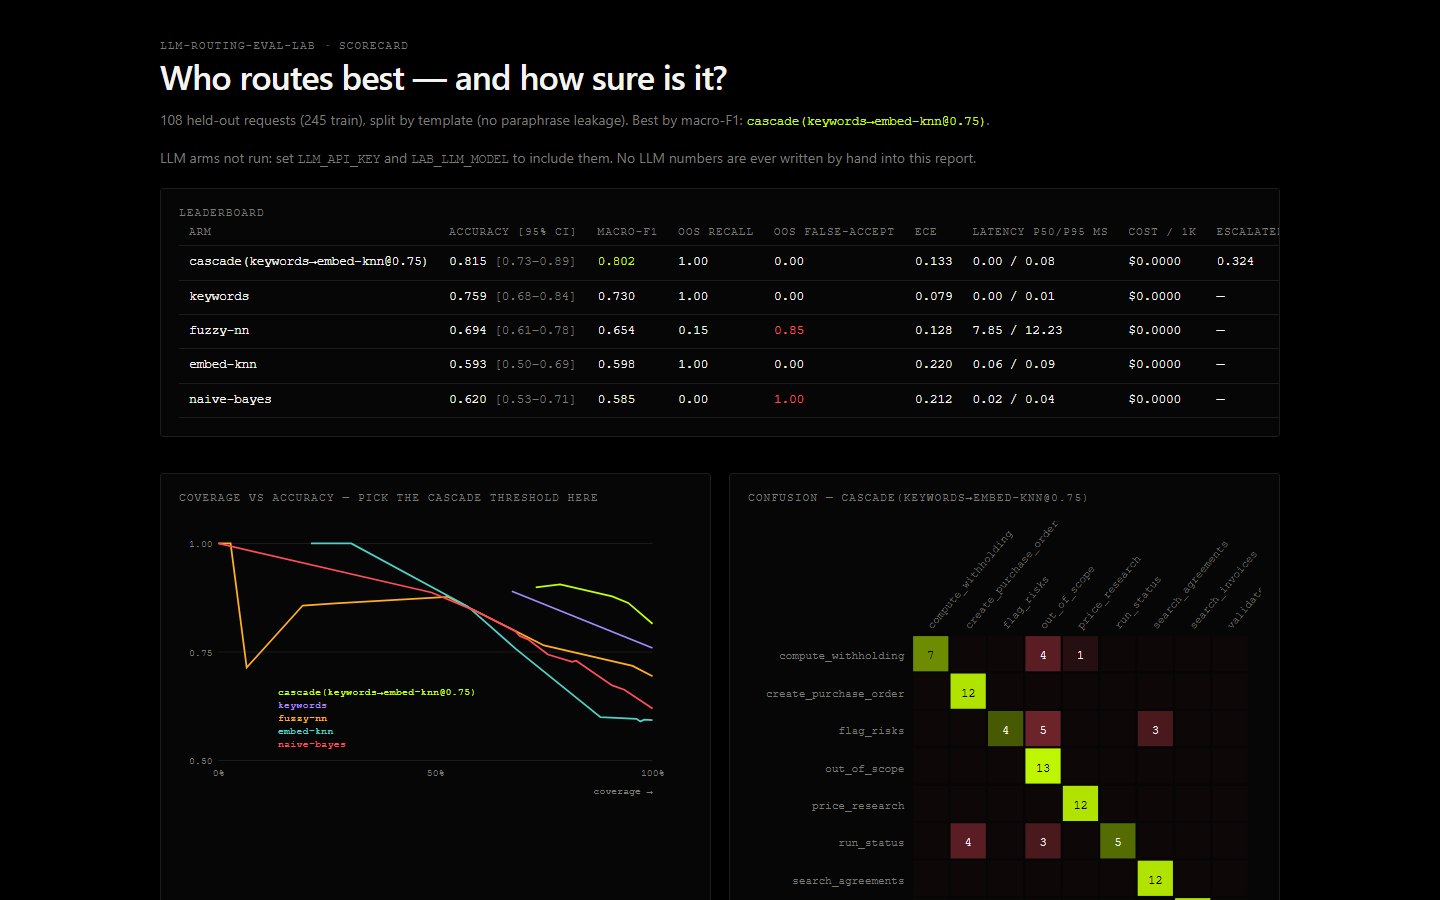
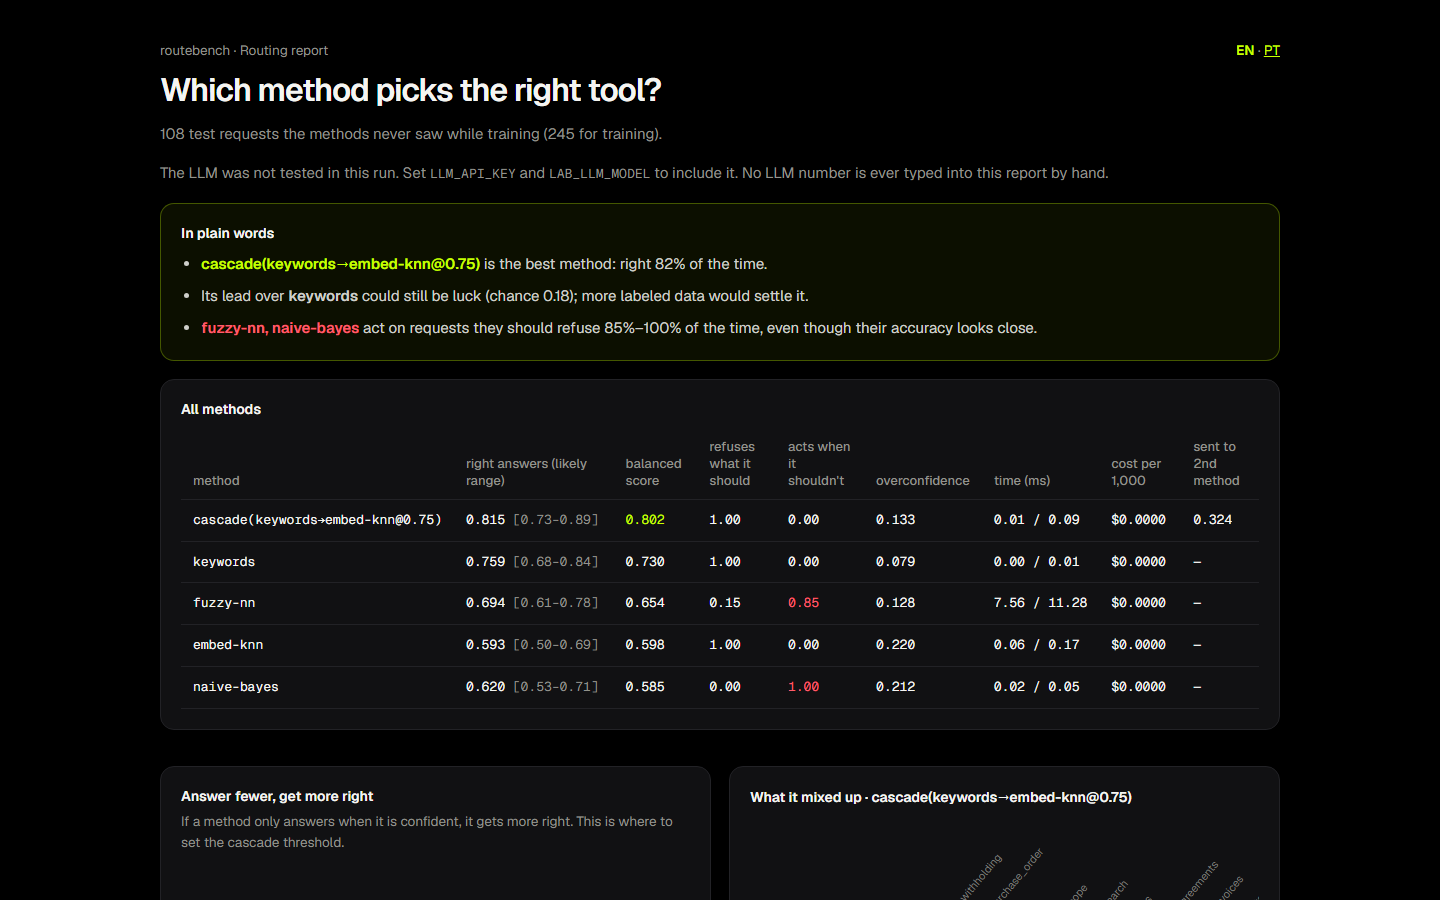
report: plain-language scorecard with a short summary

diff --git a/lab/report.py b/lab/report.py
@@ -1,4 +1,4 @@
-"""Standalone HTML scorecard (VOID theme, inline SVG, no JS) and a Markdown summary."""
+"""Standalone HTML scorecard (shared portfolio look, inline SVG, no JS) and a Markdown summary."""
 from __future__ import annotations
 
 import html
@@ -6,15 +6,17 @@ from typing import Any
 
 PALETTE = ["#c6ff00", "#a58bff", "#ffb020", "#4fd1c5", "#ff4d5e", "#f4f4f0", "#7a7a76"]
 CSS = """
-:root{--bg:#000;--s:#060606;--l:#1c1c1c;--ink:#f4f4f0;--m:#7a7a76;--a:#c6ff00;--v:#a58bff;--d:#ff4d5e}
-*{box-sizing:border-box}body{margin:0;background:var(--bg);color:var(--ink);font:14px/1.55 Inter,system-ui,sans-serif;padding:40px 16px}
-main{max-width:1120px;margin:0 auto}h1{font:600 34px/1.1 'Space Grotesk',system-ui;letter-spacing:-.02em;margin:6px 0 8px}
-.label{font:500 10.5px ui-monospace,monospace;letter-spacing:.14em;text-transform:uppercase;color:var(--m)}
-.card{border:1px solid var(--l);border-radius:3px;background:var(--s);margin:18px 0;padding:18px;overflow-x:auto}
-table{width:100%;border-collapse:collapse}td,th{text-align:left;padding:7px 10px;border-bottom:1px solid var(--l);white-space:nowrap}
-th{font:500 10.5px ui-monospace,monospace;letter-spacing:.12em;text-transform:uppercase;color:var(--m)}
-.mono{font-family:ui-monospace,monospace;font-size:12.5px}.muted{color:var(--m)}.a{color:var(--a)}.d{color:var(--d)}
+:root{--bg:#000;--s:#111113;--s2:#19191c;--l:#222226;--ink:#f5f5f2;--soft:#cfcfca;--m:#92928c;--a:#c6ff00;--v:#a58bff;--d:#ff5c6c}
+*{box-sizing:border-box}body{margin:0;background:var(--bg);color:var(--ink);font:15px/1.6 Geist,'Segoe UI',system-ui,sans-serif;padding:40px 16px;-webkit-font-smoothing:antialiased}
+main{max-width:1120px;margin:0 auto}h1{font:600 32px/1.1 Geist,'Segoe UI',system-ui,sans-serif;letter-spacing:-.03em;margin:10px 0 10px}
+.label{font:600 14px Geist,'Segoe UI',system-ui,sans-serif;color:var(--ink);margin-bottom:10px}.top{display:flex;justify-content:space-between;color:var(--m);font-size:13.5px}
+.card{border:1px solid var(--l);border-radius:14px;background:var(--s);margin:18px 0;padding:20px;overflow-x:auto}
+table{width:100%;border-collapse:collapse}td,th{text-align:left;padding:10px 12px;border-bottom:1px solid var(--l);white-space:nowrap}
+th{font:500 13px Geist,'Segoe UI',system-ui,sans-serif;color:var(--m);white-space:normal;vertical-align:bottom}
+.mono{font-family:'Geist Mono',ui-monospace,monospace;font-size:13px}.muted{color:var(--m)}.a{color:var(--a)}.d{color:var(--d)}
 .grid{display:grid;grid-template-columns:1fr 1fr;gap:18px}@media(max-width:900px){.grid{grid-template-columns:1fr}}
+.plain{border-color:rgba(198,255,0,.3);background:rgba(198,255,0,.06)}.plain ul{margin:0;padding-left:20px;display:grid;gap:8px;color:var(--soft)}
+a{color:var(--a)}.hint{color:var(--m);font-size:13.5px;margin:-4px 0 12px}
 """
 
 
@@ -25,15 +27,15 @@ def _curve_svg(rows: list[dict[str, Any]], tr=lambda s: s) -> str:
     parts = [f'<svg viewBox="0 0 {W} {H}" width="100%" role="img" aria-label="coverage vs accuracy">']
     for t in (0.5, 0.75, 1.0):
         parts.append(f'<line x1="{P}" x2="{W - P}" y1="{y(t)}" y2="{y(t)}" stroke="#1c1c1c"/>'
-                     f'<text x="{P - 6}" y="{y(t) + 4}" fill="#7a7a76" font-size="10" text-anchor="end" font-family="monospace">{t:.2f}</text>')
+                     f'<text x="{P - 6}" y="{y(t) + 4}" fill="#7a7a76" font-size="10" text-anchor="end" font-family="Geist, sans-serif">{t:.2f}</text>')
     for c in (0, 0.5, 1):
-        parts.append(f'<text x="{x(c)}" y="{H - P + 16}" fill="#7a7a76" font-size="10" text-anchor="middle" font-family="monospace">{c:.0%}</text>')
-    parts.append(f'<text x="{W - P}" y="{H - 6}" fill="#7a7a76" font-size="10" text-anchor="end" font-family="monospace">{tr("coverage →")}</text>')
+        parts.append(f'<text x="{x(c)}" y="{H - P + 16}" fill="#7a7a76" font-size="10" text-anchor="middle" font-family="Geist, sans-serif">{c:.0%}</text>')
+    parts.append(f'<text x="{W - P}" y="{H - 6}" fill="#7a7a76" font-size="10" text-anchor="end" font-family="Geist, sans-serif">{tr("coverage →")}</text>')
     for i, row in enumerate(rows):
         pts = " ".join(f"{x(pt['coverage']):.1f},{y(max(0.5, pt['accuracy'])):.1f}" for pt in row["coverage_curve"])
         color = PALETTE[i % len(PALETTE)]
         parts.append(f'<polyline points="{pts}" fill="none" stroke="{color}" stroke-width="1.8"/>'
-                     f'<text x="{P + 60}" y="{H - P - 14 - (len(rows) - 1 - i) * 13}" fill="{color}" font-size="10.5" font-family="monospace">{html.escape(row["arm"])}</text>')
+                     f'<text x="{P + 60}" y="{H - P - 14 - (len(rows) - 1 - i) * 13}" fill="{color}" font-size="10.5" font-family="Geist, sans-serif">{html.escape(row["arm"])}</text>')
     parts.append("</svg>")
     return "".join(parts)
 
@@ -45,29 +47,78 @@ def _confusion_svg(m: dict[str, dict[str, int]]) -> str:
     peak = max(max(r.values()) for r in m.values()) or 1
     parts = [f'<svg viewBox="0 0 {W} {H}" width="100%" role="img" aria-label="confusion matrix">']
     for j, lab in enumerate(labels):
-        parts.append(f'<text transform="translate({left + j * cell + cell / 2},{top - 6}) rotate(-50)" fill="#7a7a76" font-size="10" font-family="monospace">{lab}</text>')
+        parts.append(f'<text transform="translate({left + j * cell + cell / 2},{top - 6}) rotate(-50)" fill="#7a7a76" font-size="10" font-family="Geist, sans-serif">{lab}</text>')
     for i, a in enumerate(labels):
-        parts.append(f'<text x="{left - 8}" y="{top + i * cell + cell / 2 + 4}" fill="#7a7a76" font-size="10" text-anchor="end" font-family="monospace">{a}</text>')
+        parts.append(f'<text x="{left - 8}" y="{top + i * cell + cell / 2 + 4}" fill="#7a7a76" font-size="10" text-anchor="end" font-family="Geist, sans-serif">{a}</text>')
         for j, b in enumerate(labels):
             v = m[a][b]
             color = "198,255,0" if a == b else "255,77,94"
             alpha = 0.06 + 0.9 * v / peak if v else 0.03
             parts.append(f'<rect x="{left + j * cell}" y="{top + i * cell}" width="{cell - 2}" height="{cell - 2}" fill="rgba({color},{alpha:.2f})"/>')
             if v:
-                parts.append(f'<text x="{left + j * cell + cell / 2 - 1}" y="{top + i * cell + cell / 2 + 4}" fill="{"#000" if alpha > .5 else "#f4f4f0"}" font-size="11" text-anchor="middle" font-family="monospace">{v}</text>')
+                parts.append(f'<text x="{left + j * cell + cell / 2 - 1}" y="{top + i * cell + cell / 2 + 4}" fill="{"#000" if alpha > .5 else "#f4f4f0"}" font-size="11" text-anchor="middle" font-family="Geist, sans-serif">{v}</text>')
     parts.append("</svg>")
     return "".join(parts)
 
 
-PT = {'Who routes best — and how sure is it?': 'Quem roteia melhor — e com quanta certeza?', 'held-out requests': 'pedidos de teste', 'train': 'treino', 'split': 'divisão', 'by template (no paraphrase leakage)': 'por template (sem vazamento de paráfrases)', 'Best by macro-F1:': 'Melhor por macro-F1:', 'leaderboard': 'classificação', 'arm': 'braço', 'accuracy [95% CI]': 'acurácia [IC 95%]', 'OOS recall': 'recall fora de escopo', 'OOS false-accept': 'falso aceite fora de escopo', 'latency p50/p95 ms': 'latência p50/p95 ms', 'cost / 1k': 'custo / mil', 'escalated': 'escalado', 'coverage vs accuracy — pick the cascade threshold here': 'cobertura × acurácia — escolha aqui o limiar da cascata', 'confusion': 'confusão', 'is the difference real? exact McNemar vs': 'a diferença é real? McNemar exato vs', 'only best right': 'só o melhor acertou', 'only this right': 'só este acertou', 'p-value': 'p-valor', 'where the best arm fails': 'onde o melhor braço erra', 'request': 'pedido', 'truth': 'verdade', 'predicted': 'previsto', 'conf': 'conf.', 'coverage →': 'cobertura →', 'scorecard': 'placar', 'LLM arms not run: set': 'Braços com LLM não rodaram: defina', 'and': 'e', 'to include them. No LLM numbers are ever written by hand into this report.': 'para incluí-los. Nenhum número de LLM é escrito à mão neste relatório.'}
+PT = {
+ 'Which method picks the right tool?': 'Qual método escolhe a ferramenta certa?',
+ 'test requests the methods never saw while training': 'pedidos de teste que os métodos nunca viram no treino',
+ 'for training': 'para treino',
+ 'In plain words': 'Em poucas palavras',
+ 'is the best method: right': 'é o melhor método: acerta',
+ 'of the time.': 'das vezes.',
+ 'Its lead over': 'A vantagem sobre',
+ 'could still be luck (chance': 'ainda pode ser sorte (chance de',
+ 'is unlikely to be luck (chance': 'dificilmente é sorte (chance de',
+ 'more labeled data would settle it.': 'mais dados rotulados resolveriam.',
+ 'act on requests they should refuse': 'agem em pedidos que deveriam recusar',
+ 'of the time, even though their accuracy looks close.': 'das vezes, mesmo com acurácia parecida.',
+ 'method': 'método', 'right answers (likely range)': 'acertos (faixa provável)', 'balanced score': 'nota equilibrada',
+ 'refuses what it should': 'recusa o que deve', 'acts when it shouldn\'t': 'age quando não devia', 'overconfidence': 'excesso de confiança',
+ 'time (ms)': 'tempo (ms)', 'cost per 1,000': 'custo por mil', 'sent to 2nd method': 'enviado ao 2º método',
+ 'All methods': 'Todos os métodos',
+ 'Answer fewer, get more right': 'Responder menos, acertar mais',
+ 'If a method only answers when it is confident, it gets more right. This is where to set the cascade threshold.':
+   'Se o método só responde quando está confiante, acerta mais. É aqui que se escolhe o limite da cascata.',
+ 'What it mixed up': 'O que ele confundiu',
+ 'Is the difference real, or luck?': 'A diferença é real ou sorte?',
+ 'compared with': 'comparado com',
+ 'only the best got it right': 'só o melhor acertou', 'only this one got it right': 'só este acertou', 'chance it is luck': 'chance de ser sorte',
+ 'Where the best method gets it wrong': 'Onde o melhor método erra',
+ 'right tool': 'ferramenta certa', 'it chose': 'escolheu', 'confidence': 'confiança',
+ 'coverage →': 'respondidos →', 'Routing report': 'Relatório de roteamento',
+ 'The LLM was not tested in this run. Set': 'O LLM não foi testado nesta execução. Defina', 'and': 'e',
+ 'to include it. No LLM number is ever typed into this report by hand.': 'para incluí-lo. Nenhum número de LLM é digitado à mão neste relatório.',
+ 'Exact McNemar test: it only looks at the requests that one method got right and the other got wrong.':
+   'Teste exato de McNemar: olha só os pedidos que um método acertou e o outro errou.',
+ 'request': 'pedido',
+}
 
 
 def to_html(r: dict[str, Any], lang: str = "en") -> str:
     e = html.escape
     tr = (lambda s: PT.get(s, s)) if lang == "pt" else (lambda s: s)
-    other = '<a class=mono href="scorecard.html">EN</a> · <b class=a>PT</b>' if lang == "pt" else '<b class=a>EN</b> · <a class=mono href="scorecard.pt.html">PT</a>'
+    other = '<a href="scorecard.html">EN</a> · <b class=a>PT</b>' if lang == "pt" else '<b class=a>EN</b> · <a href="scorecard.pt.html">PT</a>'
+    pct = (lambda v: f"{v * 100:.0f}%".replace(".", ",")) if lang == "pt" else (lambda v: f"{v * 100:.0f}%")
     lb = r["leaderboard"]
     best = next(x for x in lb if x["arm"] == r["best"])
+    # the three findings, written for someone who has never heard of McNemar
+    runner = next((x for x in lb if x["arm"] != r["best"]), None)
+    sig_runner = r["significance_vs_best"].get(runner["arm"]) if runner else None
+    risky = [x for x in lb if x["oos_false_accept"] > 0.3]
+    plain = [f"<b class=a>{e(best['arm'])}</b> {tr('is the best method: right')} {pct(best['accuracy'])} {tr('of the time.')}"]
+    if sig_runner:
+        luck = sig_runner["p_value"] >= 0.05
+        plain.append(f"{tr('Its lead over')} <b>{e(runner['arm'])}</b> "
+                     + (f"{tr('could still be luck (chance')} {sig_runner['p_value']:.2f}); {tr('more labeled data would settle it.')}" if luck
+                        else f"{tr('is unlikely to be luck (chance')} {sig_runner['p_value']:.3f}).")
+                     )
+    if risky:
+        plain.append(f"<b class=d>{', '.join(e(x['arm']) for x in risky)}</b> {tr('act on requests they should refuse')} "
+                     f"{pct(min(x['oos_false_accept'] for x in risky))}–{pct(max(x['oos_false_accept'] for x in risky))} "
+                     f"{tr('of the time, even though their accuracy looks close.')}")
+    plain_html = "".join(f"<li>{p}</li>" for p in plain)
     rows = "".join(
         f"<tr><td class=mono>{e(x['arm'])}</td><td class=mono>{x['accuracy']:.3f} <span class=muted>[{x['accuracy_ci95'][0]:.2f}–{x['accuracy_ci95'][1]:.2f}]</span></td>"
         f"<td class='mono {'a' if x['arm'] == r['best'] else ''}'>{x['macro_f1']:.3f}</td><td class=mono>{x['oos_recall']:.2f}</td>"
@@ -80,22 +131,24 @@ def to_html(r: dict[str, Any], lang: str = "en") -> str:
     errs = "".join(f"<tr><td>{e(x['text'])}</td><td class=mono>{x['truth']}</td><td class='mono d'>{x['predicted']}</td>"
                    f"<td class=mono>{x['confidence']}</td></tr>" for x in r["best_errors"][:15])
     llm_note = ("" if r["llm_included"] else
-                f"<p class=muted>{tr('LLM arms not run: set')} <span class=mono>LLM_API_KEY</span> {tr('and')} <span class=mono>LAB_LLM_MODEL</span> "
-                f"{tr('to include them. No LLM numbers are ever written by hand into this report.')}</p>")
+                f"<p class=muted>{tr('The LLM was not tested in this run. Set')} <span class=mono>LLM_API_KEY</span> {tr('and')} <span class=mono>LAB_LLM_MODEL</span> "
+                f"{tr('to include it. No LLM number is ever typed into this report by hand.')}</p>")
     return f"""<!doctype html><html lang={"pt-BR" if lang == "pt" else "en"}><head><meta charset=utf-8><meta name=viewport content="width=device-width,initial-scale=1">
-<title>Routing benchmark</title><style>{CSS}</style></head><body><main>
-<div class=label style="display:flex;justify-content:space-between">llm-routing-eval-lab · {tr('scorecard')}<span>{other}</span></div><h1>{tr('Who routes best — and how sure is it?')}</h1>
-<p class=muted>{r['test_size']} {tr('held-out requests')} ({r['train_size']} {tr('train')}), {tr('split')} {e(tr(r['split']))}. {tr('Best by macro-F1:')}
-<span class='mono a'>{e(r['best'])}</span>.</p>{llm_note}
-<section class=card><div class=label>{tr('leaderboard')}</div><table><tr><th>{tr('arm')}</th><th>{tr('accuracy [95% CI]')}</th><th>macro-F1</th>
-<th>{tr('OOS recall')}</th><th>{tr('OOS false-accept')}</th><th>ECE</th><th>{tr('latency p50/p95 ms')}</th><th>{tr('cost / 1k')}</th><th>{tr('escalated')}</th></tr>{rows}</table></section>
+<link rel=stylesheet href="https://fonts.googleapis.com/css2?family=Geist:wght@400;500;600&family=Geist+Mono:wght@400;500&display=swap">
+<title>Routing report</title><style>{CSS}</style></head><body><main>
+<div class=top><span>routebench · {tr('Routing report')}</span><span>{other}</span></div><h1>{tr('Which method picks the right tool?')}</h1>
+<p class=muted>{r['test_size']} {tr('test requests the methods never saw while training')} ({r['train_size']} {tr('for training')}).</p>{llm_note}
+<section class="card plain"><div class=label>{tr('In plain words')}</div><ul>{plain_html}</ul></section>
+<section class=card><div class=label>{tr('All methods')}</div><table><tr><th>{tr('method')}</th><th>{tr('right answers (likely range)')}</th><th>{tr('balanced score')}</th>
+<th>{tr('refuses what it should')}</th><th>{tr("acts when it shouldn't")}</th><th>{tr('overconfidence')}</th><th>{tr('time (ms)')}</th><th>{tr('cost per 1,000')}</th><th>{tr('sent to 2nd method')}</th></tr>{rows}</table></section>
 <div class=grid>
-<section class=card><div class=label>{tr('coverage vs accuracy — pick the cascade threshold here')}</div>{_curve_svg(lb, tr)}</section>
-<section class=card><div class=label>{tr('confusion')} — {e(best['arm'])}</div>{_confusion_svg(best['confusion'])}</section>
+<section class=card><div class=label>{tr('Answer fewer, get more right')}</div><p class=hint>{tr('If a method only answers when it is confident, it gets more right. This is where to set the cascade threshold.')}</p>{_curve_svg(lb, tr)}</section>
+<section class=card><div class=label>{tr('What it mixed up')} · {e(best['arm'])}</div>{_confusion_svg(best['confusion'])}</section>
 </div>
-<section class=card><div class=label>{tr('is the difference real? exact McNemar vs')} {e(r['best'])}</div><table>
-<tr><th>{tr('arm')}</th><th>{tr('only best right')}</th><th>{tr('only this right')}</th><th>{tr('p-value')}</th></tr>{sig}</table></section>
-<section class=card><div class=label>{tr('where the best arm fails')}</div><table><tr><th>{tr('request')}</th><th>{tr('truth')}</th><th>{tr('predicted')}</th><th>{tr('conf')}</th></tr>{errs}</table></section>
+<section class=card><div class=label>{tr('Is the difference real, or luck?')} <span class=muted>({tr('compared with')} {e(r['best'])})</span></div><table>
+<p class=hint>{tr('Exact McNemar test: it only looks at the requests that one method got right and the other got wrong.')}</p>
+<tr><th>{tr('method')}</th><th>{tr('only the best got it right')}</th><th>{tr('only this one got it right')}</th><th>{tr('chance it is luck')}</th></tr>{sig}</table></section>
+<section class=card><div class=label>{tr('Where the best method gets it wrong')}</div><table><tr><th>{tr('request')}</th><th>{tr('right tool')}</th><th>{tr('it chose')}</th><th>{tr('confidence')}</th></tr>{errs}</table></section>
 </main></body></html>"""
 
 

diff --git a/tests/test_lab.py b/tests/test_lab.py
@@ -141,7 +141,7 @@ def test_cli_writes_report_and_gates(tmp_path):
     assert code == 0
     html = (tmp_path / "r.html").read_text(encoding="utf-8")
     assert "<svg" in html and "McNemar" in html and "<script" not in html
-    assert "LLM arms not run" in html          # no LLM numbers without a real run
+    assert "The LLM was not tested" in html    # no LLM numbers without a real run
     pt = (tmp_path / "r.pt.html").read_text(encoding="utf-8")
-    assert "Quem roteia melhor" in pt and "Braços com LLM não rodaram" in pt and 'href="scorecard.html"' in pt
+    assert "Qual método escolhe a ferramenta certa?" in pt and "O LLM não foi testado" in pt and 'href="scorecard.html"' in pt
     assert report.to_markdown(json.loads((tmp_path / "r.json").read_text(encoding="utf-8"))).startswith("Held-out")
